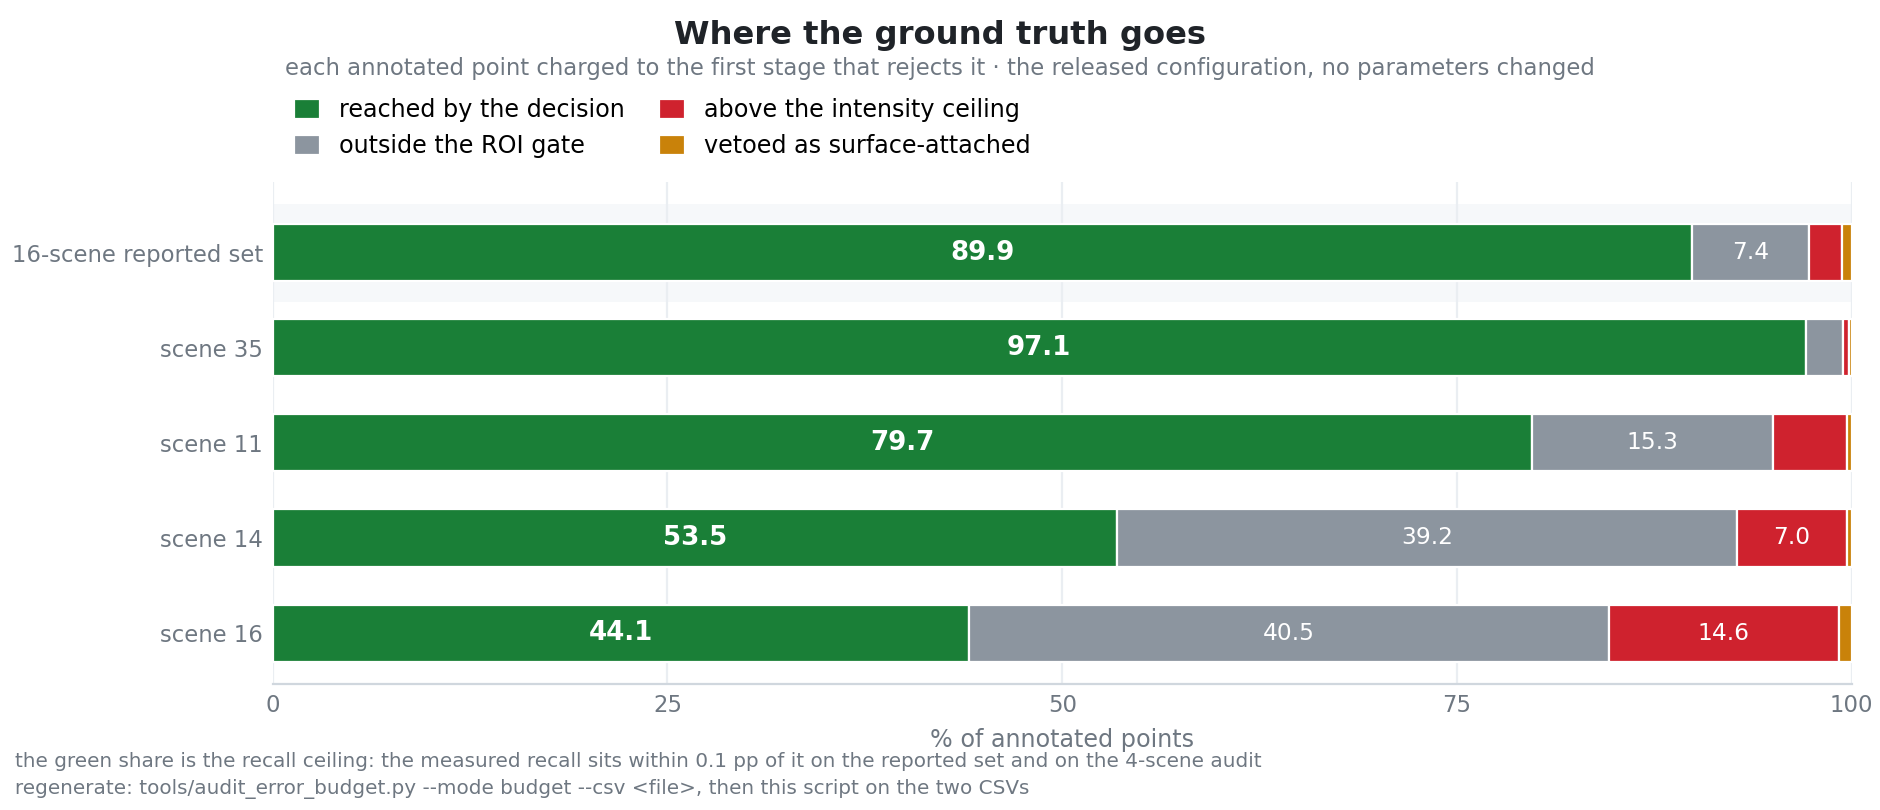
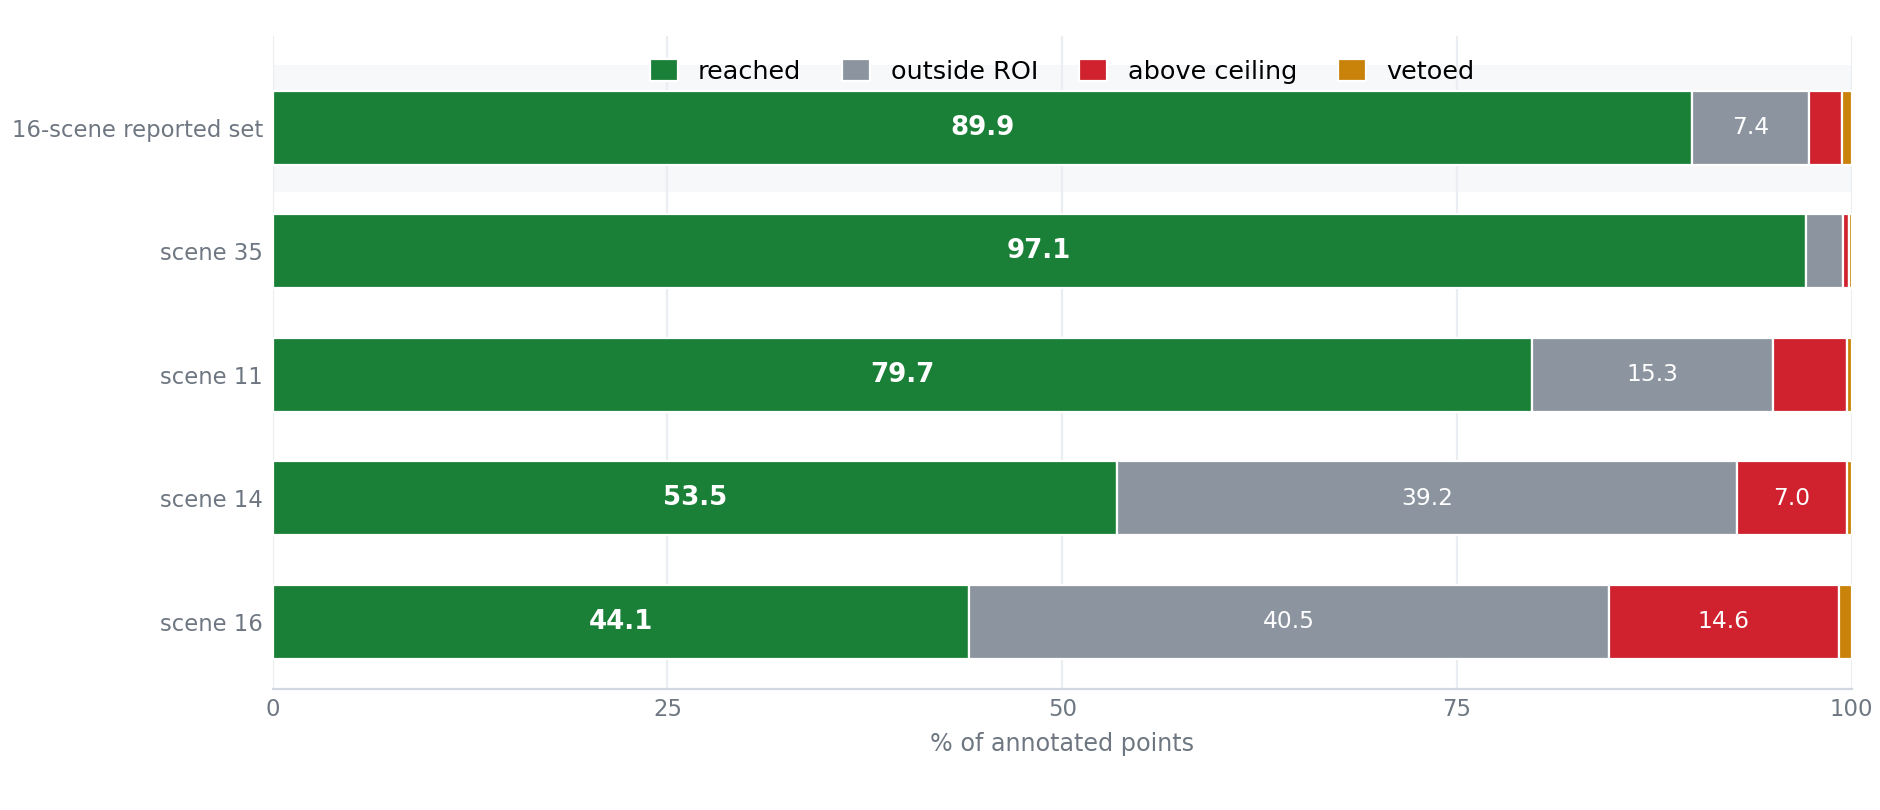
figures: take the prose out of the two result figures
Both carried a burned-in title, a subtitle and a two-line footer, and the board
also repeated every panel's P / R / F1 under its name - text that belongs in the
Markdown caption, where it can be read at full size and edited without re-rendering
a PNG. What is left inside the images is labels and numbers: method names, a
one-line legend, the per-panel dots and the scoreboard.

The captions gained back the two facts the subtitles used to state (the shared
ground truth and the frame; that the bars are a ground-truth budget).

Also fixes a real bug this re-render exposed: the board tool's --out default was
the English path regardless of --lang, so a Chinese render overwrote the English
figure.

diff --git a/tools/render_comparison_board.py b/tools/render_comparison_board.py
@@ -42,25 +42,12 @@ CJK = "/usr/share/fonts/opentype/noto/NotoSansCJK-Regular.ttc"
 BAR = {"precision": "#2f6f9f", "recall": "#2da44e", "f1": "#8250df"}
 
 TXT = {
-    "en": dict(title="One frame, seven methods, one camera — frame {frame}",
-               sub="identical frame and ground truth · in-ROI precision / recall / F1 in each "
-                   "panel · CRFOR runs its own published preprocessing, the others share ours",
-               gt="Ground truth", annotated="{n} annotated points",
-               detected="{n} detections", scoreboard="in-ROI score, this frame",
-               legend=["annotated snow", "detected & annotated — TP", "detected, not annotated — FP",
-                       "annotated, missed — FN"],
-               foot="CRFOR (Wang et al., RA-L 2023) is a separate implementation: it is run as "
-                    "published, with its own parameters and gates, not compiled into the core\n"
-                    "regenerate: tools/eval_crfor.py for its indices, then this script with one "
-                    "--series per method"),
-    "zh": dict(title="同一帧、七种方法、同一相机 —— 帧 {frame}",
-               sub="同一帧与同一真值 · 各面板内为 ROI 内的精确率 / 召回率 / F1 · CRFOR 使用其发布的"
-                   "预处理，其余方法共用我们的",
-               gt="真值标注", annotated="标注点 {n} 个",
-               detected="检出 {n} 点", scoreboard="本帧 ROI 内得分",
-               legend=["被标注的雪", "检出且被标注 —— TP", "检出但无标注 —— FP", "被标注却漏检 —— FN"],
-               foot="CRFOR（Wang et al., RA-L 2023）是独立实现：按其发布设置与门控运行，未编入核心\n"
-                    "复现：先用 tools/eval_crfor.py 生成其索引，再用本脚本为每个方法传一个 --series"),
+    "en": dict(gt="Ground truth", annotated="annotated",
+               scoreboard="P / R / F1",
+               legend=["annotated", "TP", "FP", "FN"]),
+    "zh": dict(gt="真值标注", annotated="标注",
+               scoreboard="P / R / F1",
+               legend=["被标注", "TP", "FP", "FN"]),
 }
 
 
@@ -73,8 +60,7 @@ def main() -> int:
                     help="Label=indices.txt, repeatable; drawn after the ground-truth panel")
     ap.add_argument("--frame", default="")
     ap.add_argument("--roi", type=float, default=17.0)
-    ap.add_argument("--out", type=pathlib.Path,
-                    default=pathlib.Path("docs/figures/fig12_baselines.png"))
+    ap.add_argument("--out", type=pathlib.Path, default=None)
     ap.add_argument("--lang", default="en", choices=["en", "zh"])
     ap.add_argument("--dpi", type=int, default=170)
     ap.add_argument("--width", type=float, default=11.4)
@@ -84,6 +70,8 @@ def main() -> int:
     fps = (matplotlib.font_manager.FontProperties(fname=CJK) if a.lang == "zh" else None)
     if a.lang == "zh":
         plt.rcParams["font.sans-serif"] = ["Noto Sans CJK JP", "DejaVu Sans"]
+    out = a.out or pathlib.Path("docs/figures") / (
+        "fig12_baselines_zh.png" if a.lang == "zh" else "fig12_baselines.png")
 
     pts = read_pcd(a.pcd)
     if not np.isfinite(pts).all(axis=1).all():
@@ -108,27 +96,23 @@ def main() -> int:
         raise SystemExit(f"{len(panels)} panels do not fit {cols}x{rows} with a scoreboard")
 
     fig = plt.figure(figsize=(a.width, a.height), dpi=a.dpi, facecolor=BG)
-    gs = fig.add_gridspec(rows, cols, left=0.008, right=0.992, top=0.835, bottom=0.090,
-                          wspace=0.035, hspace=0.22)
+    gs = fig.add_gridspec(rows, cols, left=0.008, right=0.992, top=0.925, bottom=0.080,
+                          wspace=0.035, hspace=0.17)
     scores = []
     for k, (label, title, snow) in enumerate(panels):
         ax = fig.add_subplot(gs[k // cols, k % cols])
         if snow is None:
             draw_panel(ax, pts, base, np.zeros(pts.shape[0], dtype=bool),
                        [(roi & gset, TP, 1.8)], a.roi, WINDOW_DISC)
-            note = t["annotated"].format(n=f"{int(gset.sum()):,}".replace(",", " "))
         else:
             m = stats(pts, gset, snow, a.roi)
             scores.append((title, m))
             draw_panel(ax, pts, base, np.zeros(pts.shape[0], dtype=bool),
                        [(roi & snow & gset, TP, 1.8), (roi & snow & ~gset, FP, 2.6),
                         (roi & gset & ~snow, FN, 3.4)], a.roi, WINDOW_DISC)
-            note = f"P {m['precision']:.1f} · R {m['recall']:.1f} · F1 {m['f1']:.1f}"
         pos = ax.get_position()
-        fig.text(pos.x0, pos.y1 + 0.028, title, color=FG, fontsize=10.6, fontweight="bold",
+        fig.text(pos.x0, pos.y1 + 0.010, title, color=FG, fontsize=10.4, fontweight="bold",
                  ha="left", va="bottom", fontproperties=fps)
-        fig.text(pos.x0, pos.y1 + 0.006, note, color=MUTED, fontsize=8.4, ha="left",
-                 va="bottom", fontproperties=fps)
 
     ax = fig.add_subplot(gs[1, cols - 1])
     ax.set_facecolor(PANEL)
@@ -152,25 +136,21 @@ def main() -> int:
     for side in ("top", "right", "left"):
         ax.spines[side].set_visible(False)
     ax.spines["bottom"].set_color("#d0d7de")
-    ax.set_title(t["scoreboard"], fontsize=9.6, color=FG, loc="left", pad=6,
+    ax.set_title(t["scoreboard"], fontsize=9.0, color=MUTED, loc="left", pad=5,
                  fontproperties=fps)
 
     handles = [plt.Line2D([], [], marker="o", ls="", markersize=5.5, color=c,
                           markeredgecolor="white")
                for c in ("#8c959f", TP, FP, FN)]
-    fig.legend(handles, t["legend"], loc="upper center", bbox_to_anchor=(0.5, 0.995), ncol=4,
-               frameon=False, fontsize=9.0, prop=fps, handletextpad=0.4, columnspacing=1.6)
-    fig.text(0.5, 0.950, t["title"].format(frame=a.frame), ha="center", va="top", fontsize=12.0,
-             color=FG, fontweight="bold", fontproperties=fps)
-    fig.text(0.5, 0.914, t["sub"], ha="center", va="top", fontsize=8.2, color=MUTED,
-             fontproperties=fps)
-    fig.text(0.008, 0.012, t["foot"], ha="left", va="bottom", fontsize=7.2, color=MUTED,
-             fontproperties=fps, linespacing=1.5)
+    # no title, subtitle or footer: the caption under the figure says all of that, and burned-in
+    # prose is the first thing that makes a figure read as cluttered
+    fig.legend(handles, t["legend"], loc="upper center", bbox_to_anchor=(0.5, 1.0), ncol=4,
+               frameon=False, fontsize=9.4, prop=fps, handletextpad=0.35, columnspacing=2.0)
 
-    a.out.parent.mkdir(parents=True, exist_ok=True)
-    fig.savefig(a.out, dpi=a.dpi, facecolor=BG)
+    out.parent.mkdir(parents=True, exist_ok=True)
+    fig.savefig(out, dpi=a.dpi, facecolor=BG)
     plt.close(fig)
-    print(f"{a.out}")
+    print(f"{out}")
     for name, m in scores:
         print(f"  {name:12s} P {m['precision']:5.2f}  R {m['recall']:5.2f}  F1 {m['f1']:5.2f}  "
               f"(TP {m['tp']}, FP {m['fp']}, FN {m['fn']})")

diff --git a/tools/gen_budget_fig.py b/tools/gen_budget_fig.py
@@ -35,22 +35,10 @@ SEG = [("reachable", "#1a7f37"), ("roi", "#8c959f"),
        ("ceiling", "#cf222e"), ("veto", "#c9820a")]
 
 TXT = {
-    "en": dict(title="Where the ground truth goes",
-               sub="each annotated point charged to the first stage that rejects it · the released "
-                   "configuration, no parameters changed",
-               xlabel="% of annotated points",
-               legend=["reached by the decision", "outside the ROI gate",
-                       "above the intensity ceiling", "vetoed as surface-attached"],
-               foot="the green share is the recall ceiling: the measured recall sits within 0.1 pp "
-                    "of it on the reported set and on the 4-scene audit\n"
-                    "regenerate: tools/audit_error_budget.py --mode budget --csv <file>, then this "
-                    "script on the two CSVs"),
-    "zh": dict(title="真值去了哪里",
-               sub="每个标注点计入第一个拒绝它的阶段 · 发布配置，未改动任何参数",
-               xlabel="占标注点的百分比",
-               legend=["通过判定被检出", "落在 ROI 门控之外", "高于强度上限", "被判为贴附表面而否决"],
-               foot="绿色段即召回上限：在报告集与 4 场景审计上，实测召回与它的差距都在 0.1 pp 以内\n"
-                    "复现：tools/audit_error_budget.py --mode budget --csv <文件>，再用本脚本读这两个 CSV"),
+    "en": dict(xlabel="% of annotated points",
+               legend=["reached", "outside ROI", "above ceiling", "vetoed"]),
+    "zh": dict(xlabel="占标注点的百分比",
+               legend=["被检出", "ROI 之外", "高于上限", "被否决"]),
 }
 
 
@@ -111,15 +99,9 @@ def main() -> int:
     for side in ("top", "right", "left"):
         ax.spines[side].set_visible(False)
     ax.spines["bottom"].set_color(RULE)
-    ax.legend(loc="lower left", bbox_to_anchor=(0.0, 1.005), frameon=False, fontsize=8.6,
-              ncol=2, prop=fps, handlelength=1.1, handleheight=0.95, columnspacing=1.4)
-    fig.text(0.5, 0.975, t["title"], ha="center", va="top", fontsize=11.6, color=FG,
-             fontweight="bold", fontproperties=fps)
-    fig.text(0.5, 0.930, t["sub"], ha="center", va="top", fontsize=8.2, color=MUTED,
-             fontproperties=fps)
-    fig.text(0.008, 0.014, t["foot"], ha="left", va="bottom", fontsize=7.2, color=MUTED,
-             fontproperties=fps, linespacing=1.5)
-    fig.subplots_adjust(left=0.145, right=0.985, top=0.775, bottom=0.155)
+    ax.legend(loc="upper center", bbox_to_anchor=(0.5, 1.0), frameon=False, fontsize=9.2,
+              ncol=4, prop=fps, handlelength=1.1, handleheight=0.95, columnspacing=1.6)
+    fig.subplots_adjust(left=0.145, right=0.985, top=0.955, bottom=0.150)
 
     out.parent.mkdir(parents=True, exist_ok=True)
     fig.savefig(out, dpi=200, facecolor="white")

diff --git a/README.md b/README.md
@@ -109,7 +109,8 @@ Release build, `OMP_NUM_THREADS=2`; timing excludes I/O and evaluation. Reproduc
 
 ![One frame, seven methods, one camera](docs/figures/fig12_baselines.png)
 
-*Frame `042126`. CRFOR (Wang et al., RA-L 2023) is run as published, with its own preprocessing and
+*Frame `042126`, same ground truth for every panel; the scoreboard repeats each method's in-ROI
+P / R / F1. CRFOR (Wang et al., RA-L 2023) is run as published, with its own preprocessing and
 parameters; the four filters share ours.*
 
 ### Scene 35 — every method on the same 101 frames
@@ -142,8 +143,9 @@ multi-hour job, and its scene-35 result above is the honest sample we have.
 
 ![Where the ground truth goes](docs/figures/fig15_budget.png)
 
-*The green share is the recall ceiling. On the reported set it is 89.90 % and the measured recall is
-89.98 %; on scene 16 the ROI gate takes 40.5 % and the intensity ceiling 14.6 %.*
+*Ground-truth budget, released configuration: each annotated point charged to the first stage that
+rejects it. The green share is the recall ceiling — 89.90 % on the reported set against a measured
+recall of 89.98 % — and on scene 16 the ROI gate takes 40.5 % with the intensity ceiling at 14.6 %.*
 
 More figures — per-scene detail, ablation, frame time, the gate in closed form, frame-by-frame
 traces, the intensity distribution: [`docs/figures/README.md`](docs/figures/README.md).
